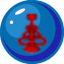
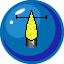
add new images for weapons and powerups for HUD modify HUD to work more smooth

Changed region(s): [[0.25, 0.1562, 0.75, 0.8438]]

diff --git a/core/src/com/github/lhrb/nemo/ui/HUD.java b/core/src/com/github/lhrb/nemo/ui/HUD.java
@@ -66,13 +66,13 @@ public class HUD implements PropertyChangeListener{
 
         // Powerups
         collectibleIcons.put(CType.Bomb, new TextureRegionDrawable(AnimationLoader.get()
-                .texture("powerup_bombe.png").getKeyFrame(0)));
+                .texture("iconBomb.png").getKeyFrame(0)));
         collectibleIcons.put(CType.Multiplicator, new TextureRegionDrawable(AnimationLoader.get()
-                .texture("powerup_multiplicator.png").getKeyFrame(0)));
+                .texture("iconMultiplikator.png").getKeyFrame(0)));
         collectibleIcons.put(CType.Shield, new TextureRegionDrawable(AnimationLoader.get()
-                .texture("powerup_shield.png").getKeyFrame(0)));
+                .texture("iconShield.png").getKeyFrame(0)));
         collectibleIcons.put(CType.Star, new TextureRegionDrawable(AnimationLoader.get()
-                .texture("powerup_star.png").getKeyFrame(0)));
+                .texture("iconStar.png").getKeyFrame(0)));
         collectibleIcons.put(CType.None, new Image().getDrawable());
 
         //TextureRegionDrawable test = new TextureRegionDrawable(AnimationLoader.get().texture("IconNormal.png").getKeyFrame(0));
@@ -99,32 +99,31 @@ public class HUD implements PropertyChangeListener{
         hud.setFillParent(true);
         
         // first Row: Level Indicator
-        hud.add(timeTextLbl).width(64).padLeft(10).padRight(10);
+        hud.add(timeTextLbl).width(64).padLeft(10).padTop(3);
         //hud.add(timeLbl).expandX().height(50).right().pad(10); // middle
-        hud.add(scoreTextLbl).expandX().padLeft(10).padRight(10).right(); // für das Level, in welcher Form bilden wir es?
+        hud.add(scoreTextLbl).expandX().padRight(10).padTop(3).right(); // für das Level, in welcher Form bilden wir es?
         hud.row();
 
         // second row:Highscore indicatro
-        hud.add(timeLbl).width(64).pad(10).padTop(0);
-        hud.add(scoreLbl).expandX().right().pad(10).padTop(0);
+        hud.add(timeLbl).width(64).padLeft(10).padTop(0);
+        hud.add(scoreLbl).expandX().right().padRight(10);
         hud.row();
 
         // third row
-        hud.add().expandY().width(64).pad(10);
-        hud.add(bombIcon).expandX().pad(10).bottom().right();
+        hud.add(bombIcon).colspan(2).expand().padRight(10).padLeft(10).bottom().right().height(55).width(55);
         hud.row();
 
         // fourth row
-        hud.add().width(64).pad(10).height(64);
-        hud.add(powerupStack).expandX().pad(10).bottom().right();
+        hud.add(powerupStack).expandX().colspan(2).padRight(10).padLeft(10).bottom().right().maxHeight(55).maxWidth(55);
         hud.row();
 
         // fifth:
         // left: weaponStack
         // right: life + heart
-        hud.add(weaponStack).height(64).width(64).bottom().pad(10);
-        hud.add(hpBtn).expandX().pad(10).bottom().right();
+        hud.add(weaponStack).height(55).width(55).bottom().padLeft(10).padBottom(3);
+        hud.add(hpBtn).expandX().padRight(10).padBottom(3).bottom().right();
 
+        //hud.debug();
     }
     
     private void initLabels() {
